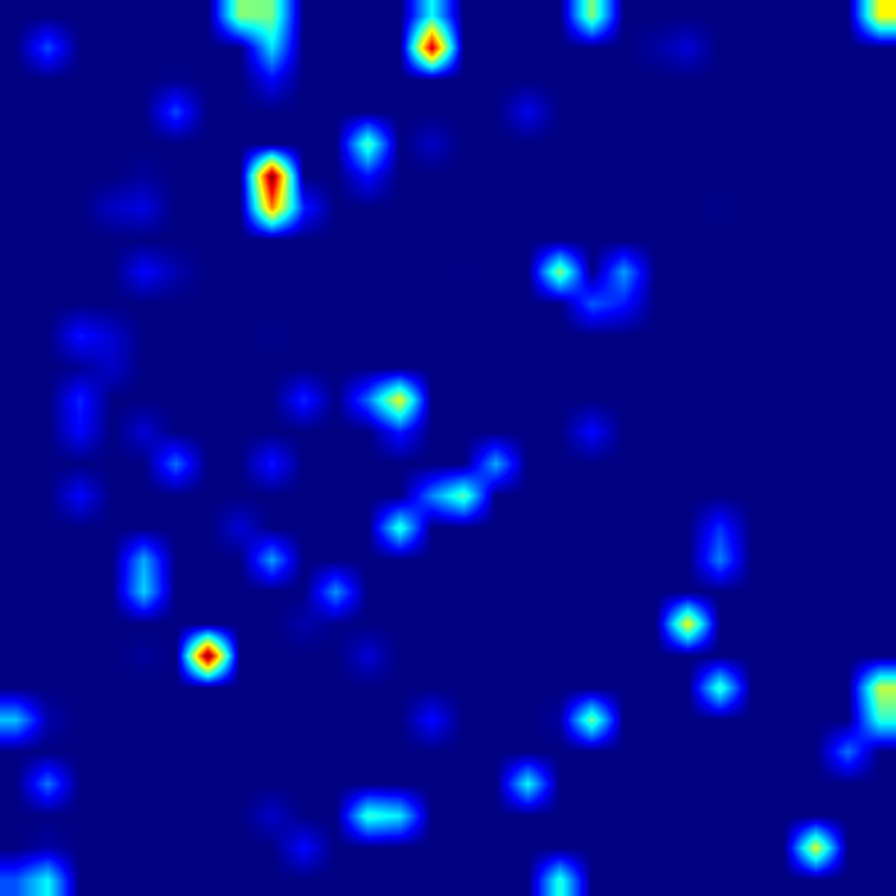
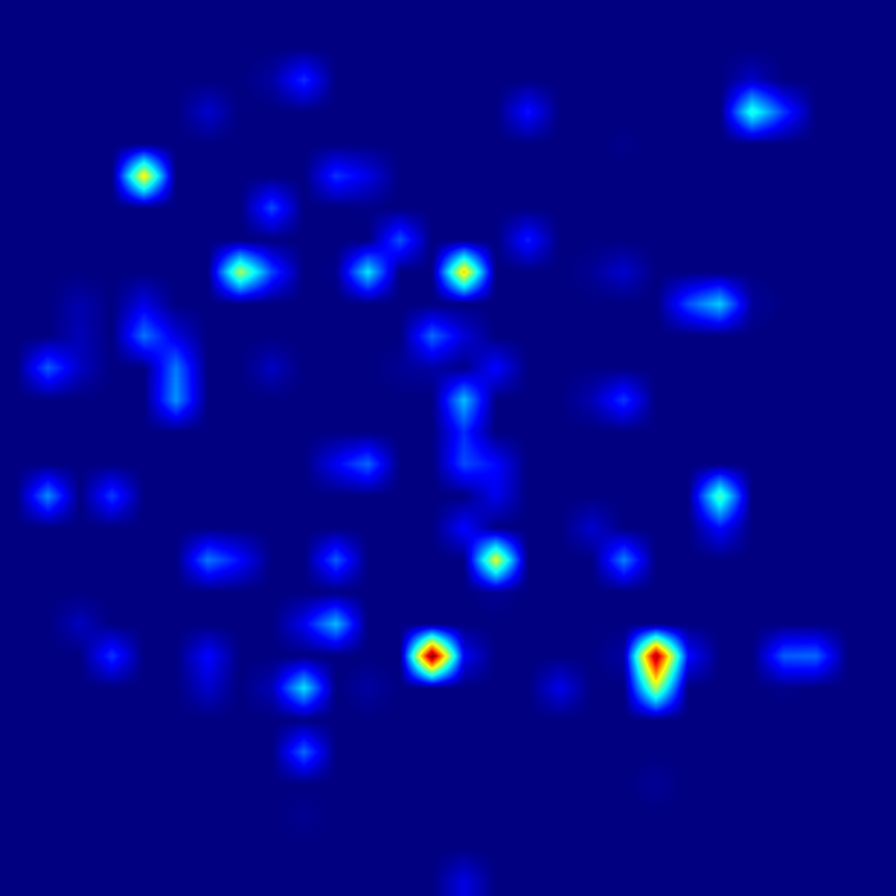
updated

diff --git a/Test_gradcam.py b/Test_gradcam.py
@@ -1,24 +1,12 @@
 import numpy as np
-import base64
-import flask
-import io
-import requests
 from keras.backend import tensorflow_backend as K
 from keras.applications.vgg16 import VGG16, preprocess_input
 from keras.models import load_model
 import tensorflow as tf
-#from tensorflow import keras
-import keras
 import cv2
-from flask import send_file
-from PIL import Image
 from keras_efficientnets import EfficientNetB5
 from tensorflow.keras.preprocessing import image
-import threading
 import multiprocessing as mp
-from multiprocessing import Pool,Process
-import ray
-#tf.enable_eager_execution()
 
 
 mp.set_start_method('fork')
@@ -30,9 +18,6 @@ H , W = IMG_SIZE*4,IMG_SIZE*4
 all_grads = []
 my_cam = []
 base_map = np.zeros((56,56),dtype=int)
-
-app = flask.Flask(__name__)
-
 
 graph2 = tf.Graph()
 with graph2.as_default():
@@ -193,16 +178,11 @@ def gradcam(org_img):
 
         return gauss_img,jetcam_max,jetcam_mean
 
-img = cv2.imread('./test_images/DR_4.JPG')
+img = cv2.imread('./test_images/DR_7.JPG')
 
 gradcam(img)
 
 
-
-# cv2.imshow("gradcam_max",cv2.imread('overlap_max.jpg'))
-# cv2.imshow("gradcam_mean",cv2.imread('overlap_mean.jpg'))
-# cv2.imshow("gauss",cv2.imread('gauss.jpg'))
-# cv2.waitKey(0)
 
 
 

diff --git a/README.md b/README.md
@@ -1,1 +1,72 @@
 # Diabetic_retinopathy_gradcam
+
+# Deep-Object-Search-With-Hash
+
+## A Short Description Of Project
+
+This repo contains Gradcam visualization of Retinal fundus Images from a trained efficientnet_b5
+model. Gradcam has been calculated from an intermediate layer which can highlight
+Fat deposits, Isolated medium sized haemorrhages effectively. For more better visualization
+Accumulated gradcams calculated from several layers can be very useful 
+
+## Environment Setup:
+
+
+### Installation instructions
+
+_Run the commands in a terminal or command-prompt.
+
+- Install `Python 3.6 or >3.6` for your operating system, if it does not already exist.
+
+ - For [Mac](https://www.python.org/ftp/python/3.6.8/python-3.6.8-macosx10.9.pkg)
+
+ - For [Windows](https://www.python.org/ftp/python/3.6.8/python-3.6.8-amd64.exe)
+
+ - For Ubuntu/Debian
+
+ ```bash
+ sudo apt-get install python3.6
+ ```
+
+ Check if the correct version of Python (3.6) is installed.
+
+ ```bash
+ python --version
+ ```
+
+**Make sure your terminal is at the root of the project i.e. where 'README.md' is located.**
+
+* Get `virtualenv`.
+
+ ```bash
+ pip install virtualenv
+ ```
+
+* Create a virtual environment named `.env` using python `3.6` and activate the environment.
+
+ ```bash
+ # command for gnu/linux systems
+ virtualenv -p $(which python3.6) .env
+
+ source .env/bin/activate
+ ```
+ 
+* Install python dependencies from requirements.txt.
+ ```bash
+  pip install -r requirements.txt
+  ```
+
+### How to Run 
+ 
+Run the script from terminal using following command 
+
+```bash
+ python3 Test_gradcam.py 
+ ```
+Now in the project root directory you will find all the  Gauss,
+Gradcam and Overlapped (Gauss+Gradcam) images.
+	
+
+## Contacts
+
+1. Md. Faisal Ahmed Siddiqi (ahmedfaisal.fa21@gmail.com)
